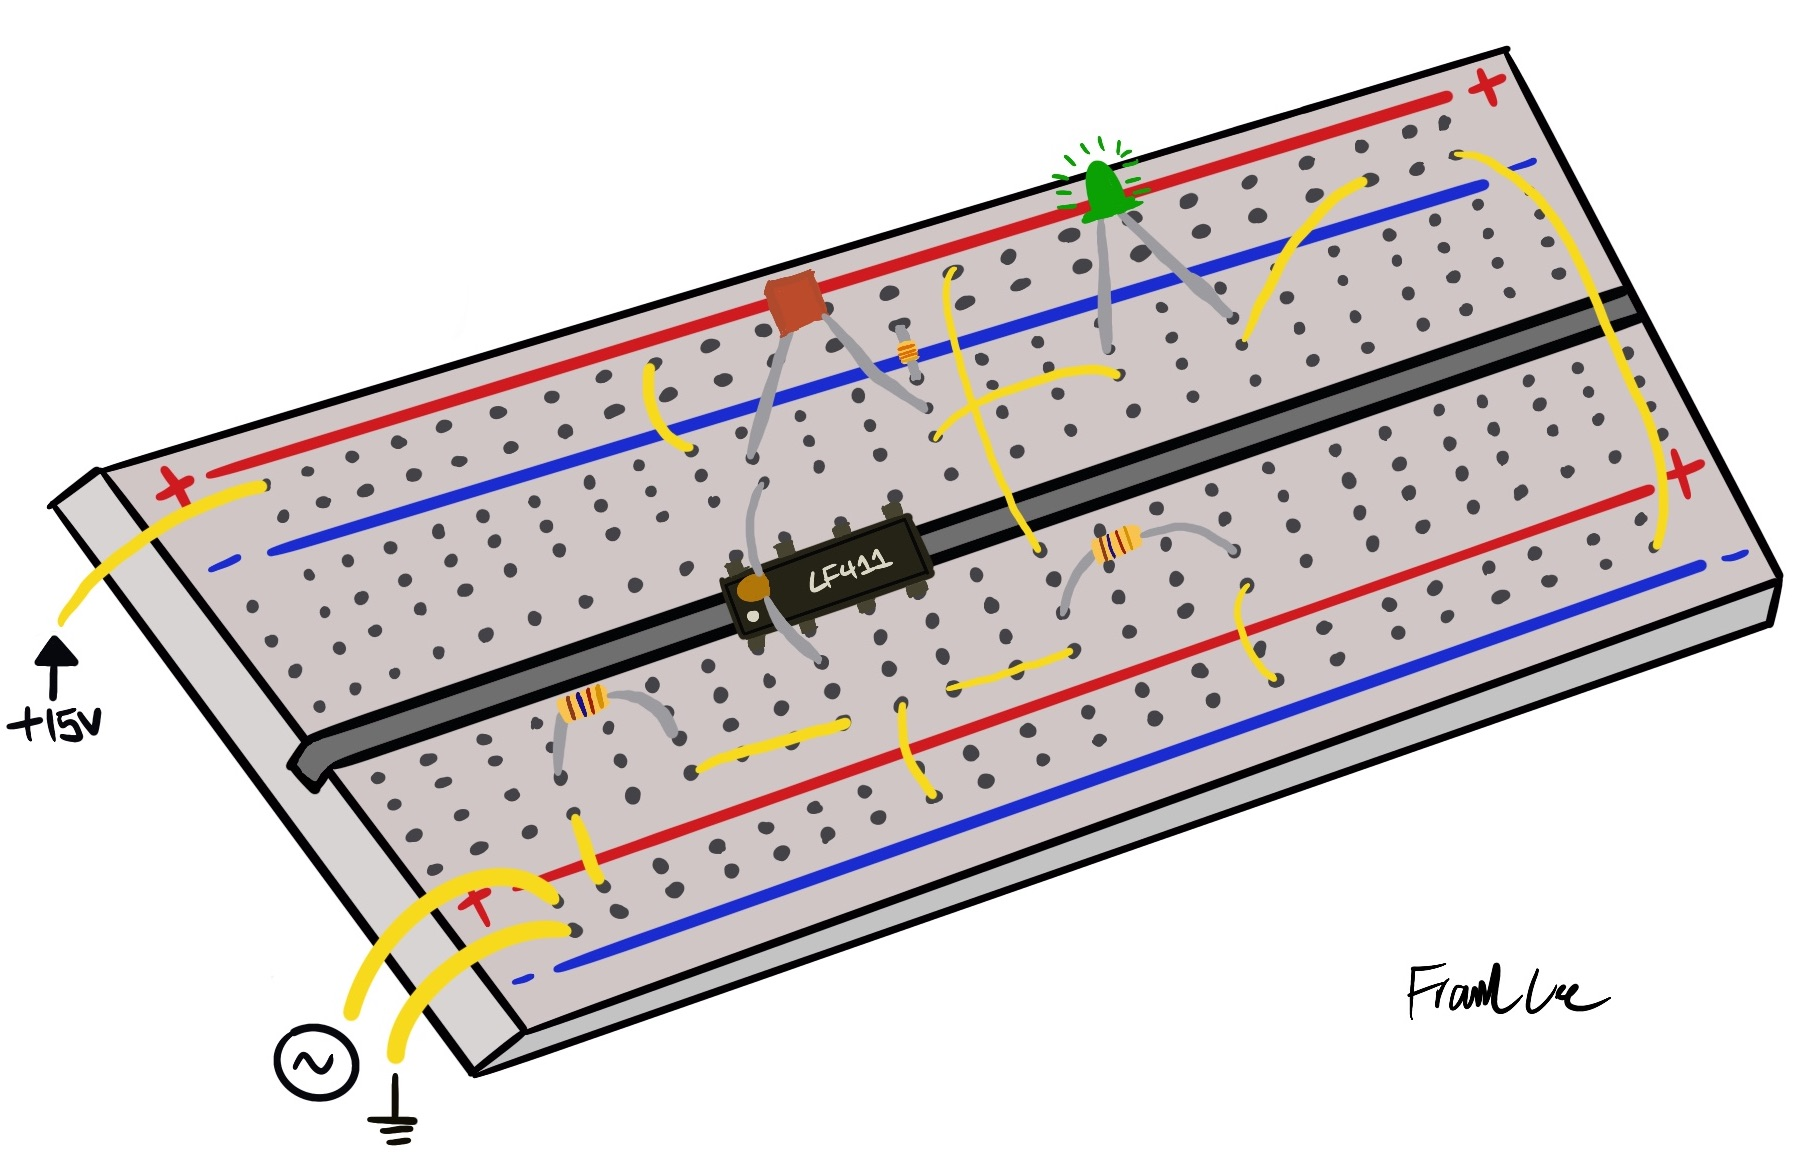
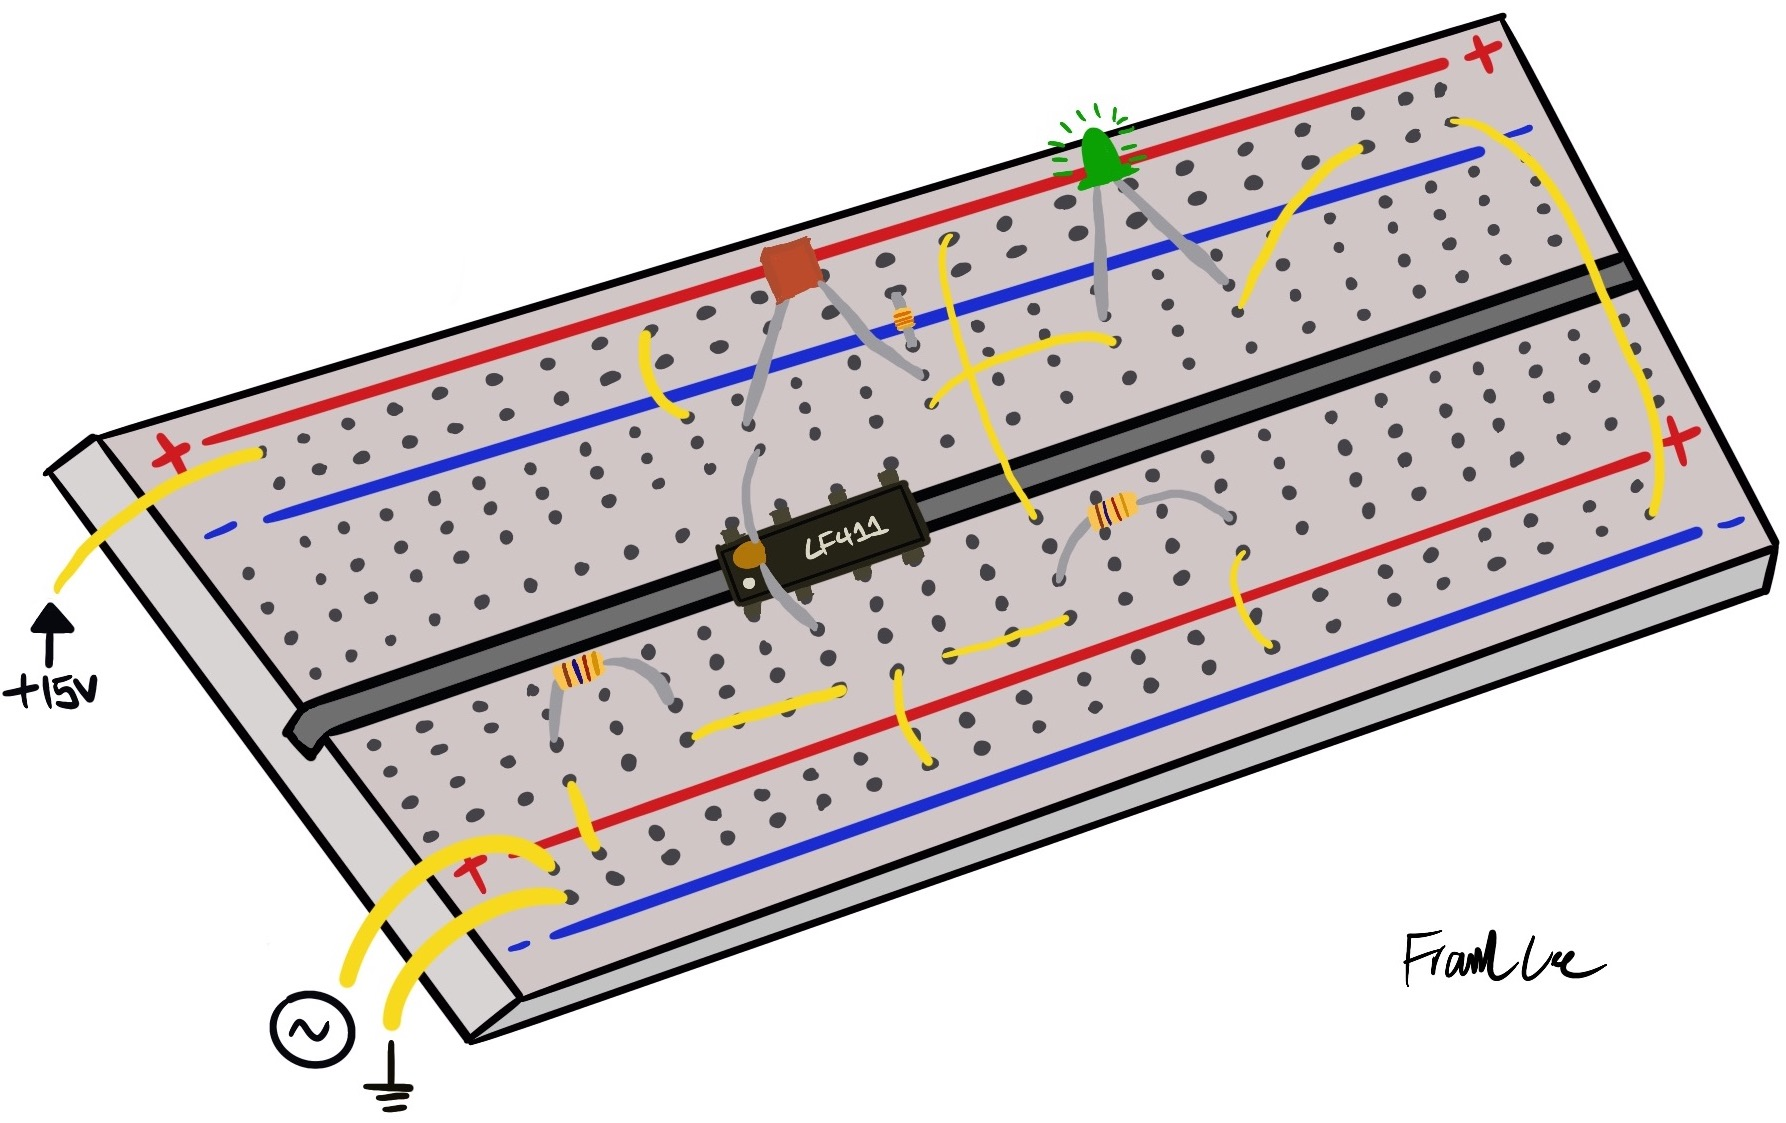
slight shrink

diff --git a/_posts/2019-6-17-First sketch dump.md b/_posts/2019-6-17-First sketch dump.md
@@ -11,6 +11,6 @@ I've recently downloaded Procreate and it's incredibly fun to learn! With school
 
 ![Islands](/img/About_Me_Background_.jpg)
 
-![Breadboard](/img/breadboard.jpg)
+![Breadboard](/img/Breadboard.jpg)
 
 I have absolute zero training in art; I just watched some Youtube tutorials and I drew these things. 

diff --git a/resume.md b/resume.md
@@ -2,7 +2,7 @@
 layout: page
 title: Résumé
 subtitle: Updated as of June 2019
-bigimg: /img/breadboard.jpg
+bigimg: /img/Breadboard.jpg
 ---
 
 ![alt text](./newResume.png)
